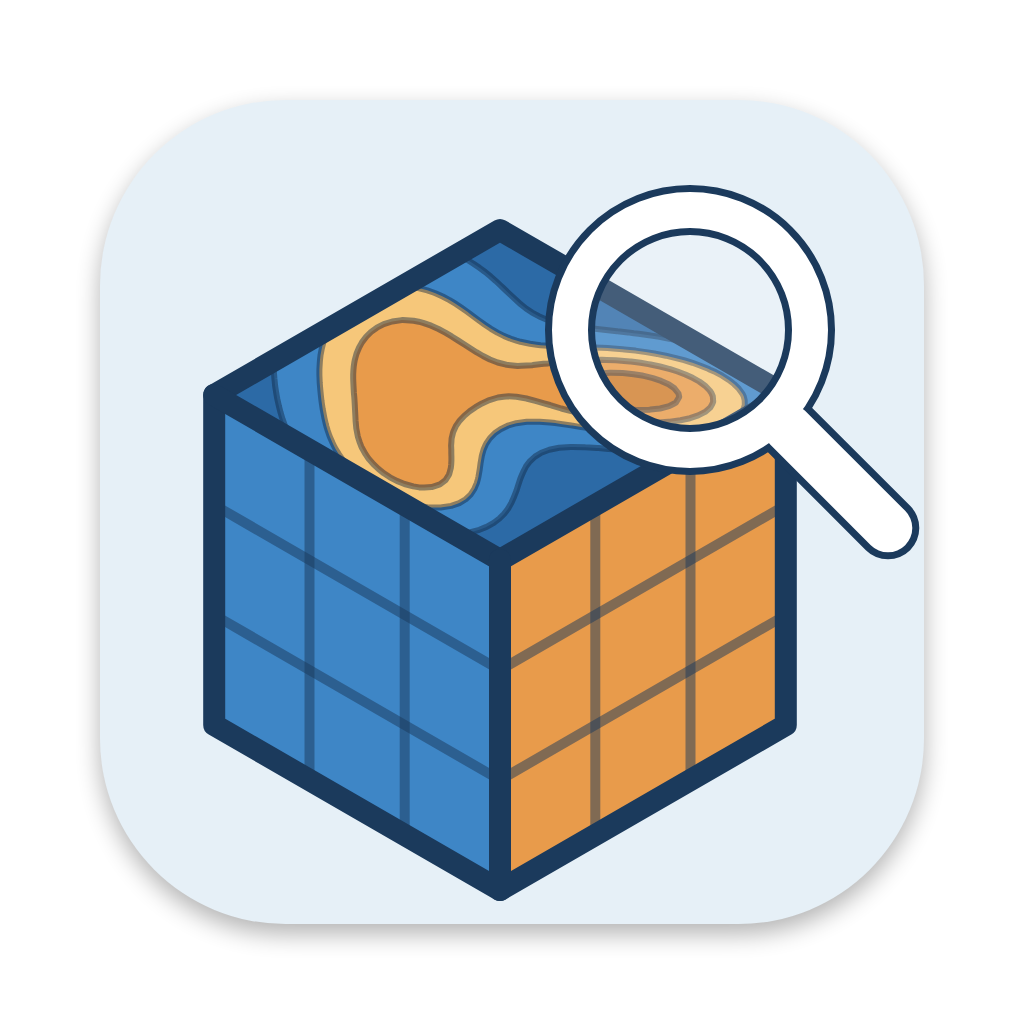
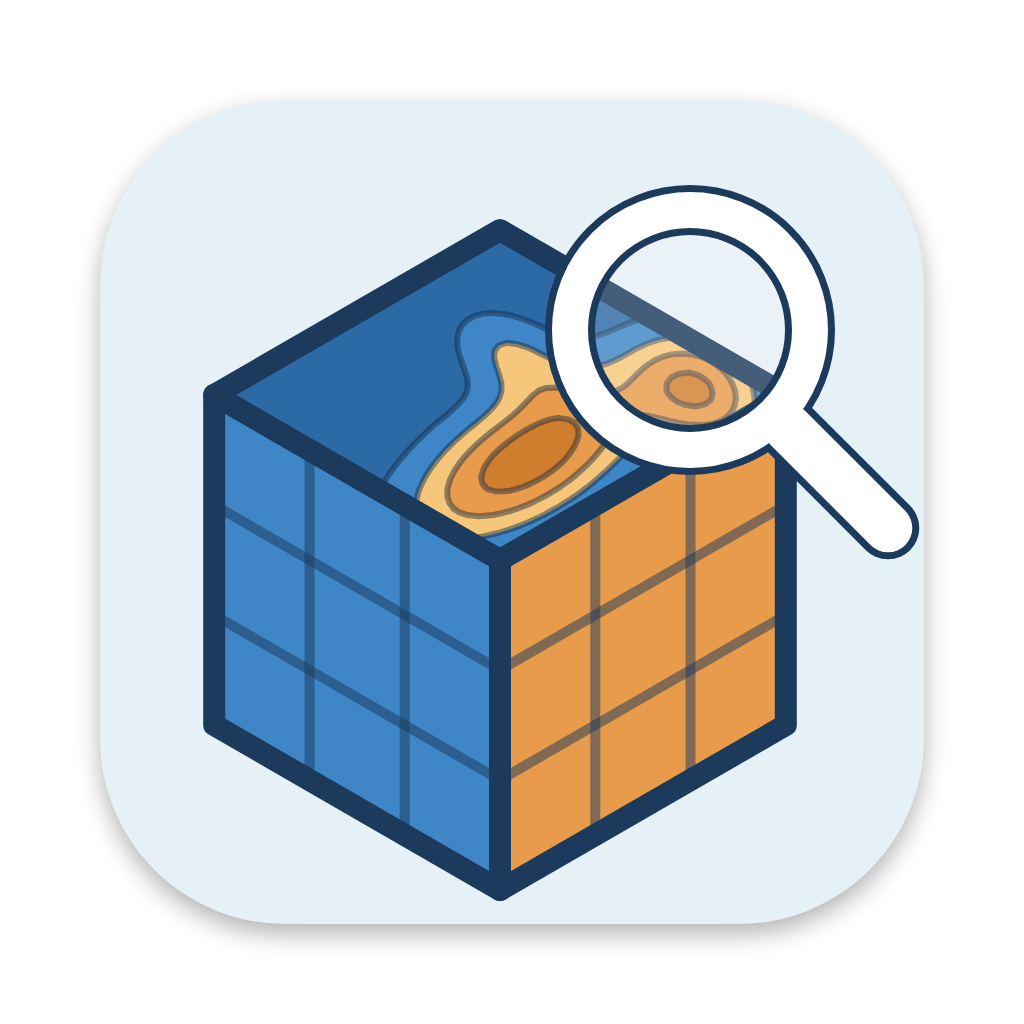
docs: shift the A-series warm peaks toward the orange face
A4's warm peak moves into the front-right half of the top face, above the
orange side, and the field cools toward the back-left corner above the
blue side. A7 pushes the same idea further: the peak hugs the right edge
so the orange bands run into the orange face along their shared edge.

The comparison sheet drops its 256 px column to stay under the 500 KB
pre-commit limit; 128 px is the largest size the Dock shows anyway.

Claude-Session: https://claude.ai/code/session_01UEP8n6zNeoMCZBLbdEWbGD

Changed region(s): [[0.25, 0.25, 0.75, 0.5312]]

diff --git a/docs/icon-options/generate.py b/docs/icon-options/generate.py
@@ -345,12 +345,27 @@ FIELD_ANOMALY = {
     "cold": [(0.25, BLUE), (0.60, BLUE_DEEP)],
 }
 
+# The orange face hangs from the top face's u = 1 edge and the blue face from
+# its v = 1 edge, so warm peaks sit at high u (toward the orange face) and
+# the field cools toward the back-left corner above the blue face.
 FIELD_TWIN_PEAKS = {
     "base": BLUE_DEEP,
     "bumps": [
-        gaussian(0.8, 0.28, 0.60, 0.46, 0.26, 40),
-        gaussian(1.0, 0.72, 0.26, 0.30, 0.18, -30),
-        gaussian(0.4, 0.58, 0.88, 0.24, 0.14, 10),
+        gaussian(1.0, 0.74, 0.64, 0.42, 0.20, 80),
+        gaussian(0.8, 0.84, 0.14, 0.24, 0.15, 30),
+        gaussian(0.4, 0.40, 0.36, 0.20, 0.12, 20),
+    ],
+    "bands": [(0.16, BLUE), (0.40, SAND), (0.62, ORANGE), (0.85, ORANGE_DEEP)],
+}
+
+# Same idea pushed further: the main peak hugs the right edge so the orange
+# bands run into the orange face along their shared edge.
+FIELD_WARM_EDGE = {
+    "base": BLUE_DEEP,
+    "bumps": [
+        gaussian(1.0, 0.90, 0.72, 0.44, 0.24, 80),
+        gaussian(0.7, 0.68, 0.18, 0.26, 0.15, -20),
+        gaussian(0.35, 0.28, 0.62, 0.18, 0.11, 40),
     ],
     "bands": [(0.16, BLUE), (0.40, SAND), (0.62, ORANGE), (0.85, ORANGE_DEEP)],
 }
@@ -664,6 +679,7 @@ OPTIONS = {
     "a4-twin-peaks": lambda: option_a_cube_loupe(label="A4", top_face=top_face_contours(FIELD_TWIN_PEAKS, INK)),
     "a5-gridded-field": lambda: option_a_cube_loupe(label="A5", top_face=top_face_contours(FIELD_EDDY, INK, grid_color=INK)),
     "a6-isolines": lambda: option_a_cube_loupe(label="A6", top_face=top_face_isolines),
+    "a7-warm-edge": lambda: option_a_cube_loupe(label="A7", top_face=top_face_contours(FIELD_WARM_EDGE, INK)),
     "b-tiles-loupe": option_b_tiles_loupe,
     "c-globe": option_c_globe,
     "d-bold-cube": option_d_bold_cube,

diff --git a/docs/icon-options/README.md b/docs/icon-options/README.md
@@ -6,7 +6,7 @@ here is wired into the app yet; this directory exists so the options can be
 compared side by side, tweaked, and one of them promoted to
 `apple/App/Assets.xcassets/AppIcon.appiconset/` once picked.
 
-![All candidates at Dock, Finder and sidebar sizes on light and dark grounds](comparison.png)
+![All candidates at 128, 64, 32 and 16 px on light and dark grounds](comparison.png)
 
 ## The options
 
@@ -19,9 +19,10 @@ down to what survives 16 px.
 | `a-cube-loupe.svg`        | Closest to the concept: gridded blue/orange side faces, a colour field on top, a white loupe over the top-right corner. Light ground. The play button is dropped (it says "media player"). First draft: the top is three concentric bands, which reads as a bullseye; kept for reference. | Blue/orange cube with a white ring    |
 | `a2-cube-loupe-dark.svg`  | Same artwork on a dark navy ground, for comparison against the other dark options and against the dark Dock.                                                                | Same, on navy                         |
 | `a3-anomaly.svg`          | A-series, contoured top: a diverging anomaly map on a cream face. Warm bands in the right face's oranges, cold bands in the left face's blues, thin isolines. Like a sea-surface-temperature anomaly. | Cube with a cream top                 |
-| `a4-twin-peaks.svg`       | A-series, contoured top: a sequential field from deep blue through sand to orange, two elongated peaks plus a small island, contours running off the face edges.             | Cube with a blue/orange top           |
+| `a4-twin-peaks.svg`       | A-series, contoured top: a sequential field from deep blue through sand to orange. The warm peak sits in the front-right half, toward the orange face, and the field cools toward the back-left corner above the blue face. | Cube with a blue/orange top           |
 | `a5-gridded-field.svg`    | A-series, contoured top: a broad warm ridge across a blue field, with the 3x3 grid faintly continued over the top so all three faces read as gridded.                       | Cube with a mostly blue top           |
 | `a6-isolines.svg`         | A-series, contoured top: the A3 field as unfilled isolines only, orange and blue on cream. Topographic-map look; at 16 px the top is plain cream.                            | Cube with a cream top                 |
+| `a7-warm-edge.svg`        | A4 pushed further: the warm peak hugs the right edge so the orange bands run into the orange face along their shared edge, with a small island and deep blue at the back-left. | Cube with a blue/orange top           |
 | `b-tiles-loupe.svg`       | Flat 4x4 field of rounded chunk tiles in a stepped cool-to-warm ramp, with the loupe zooming a 2x2 block. The "chunked array" reading of Zarr/Icechunk, no perspective.      | Coloured grid with a white circle     |
 | `c-globe.svg`             | Graticule globe (parallels and meridians) with one grid cell lit orange. The earth-science reading; no loupe.                                                               | Blue disc with white lines            |
 | `d-bold-cube.svg`         | Isometric cube with a 3x3 grid on every face and one hot chunk per face. Boldest silhouette; risks a Rubik's cube association.                                              | Three-colour cube                     |
